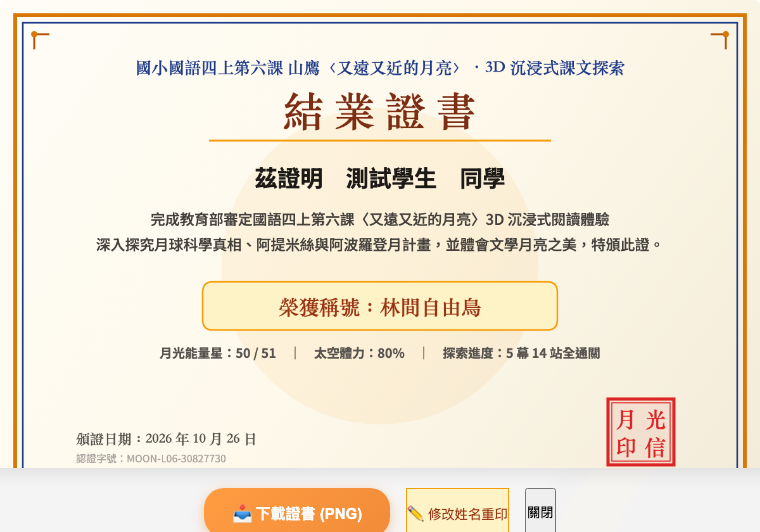
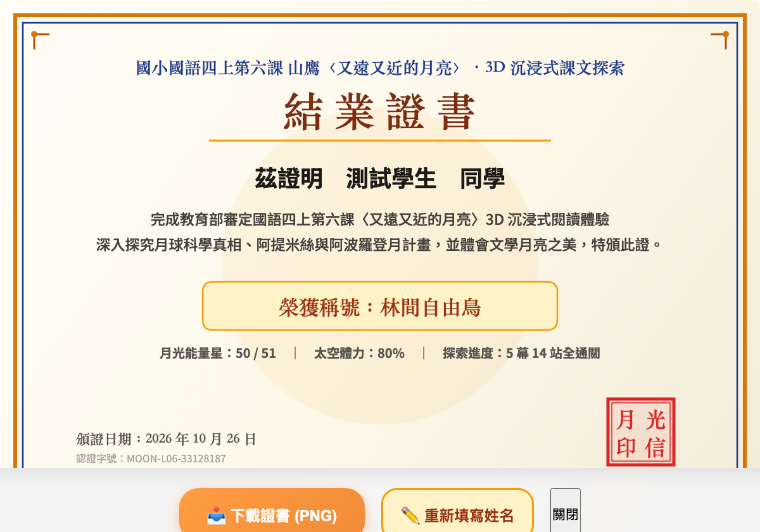
fix(auth,cert): fix teacher password to 1212 without displaying in UI, align cert anti-foolproofing modal with cat-game

Changed region(s): [[0.2118, 0.9023, 0.7868, 1.0], [0.2421, 0.8421, 0.3026, 0.8722]]

diff --git a/moon-game/game.html b/moon-game/game.html
@@ -6,7 +6,7 @@
   <meta name="apple-mobile-web-app-capable" content="yes">
   <meta name="apple-mobile-web-app-status-bar-style" content="black-translucent">
   <title>《又遠又近的月亮：3D 登月奇航》沉浸式教育遊戲</title>
-  <link rel="stylesheet" href="css/style.css?v=20261029_1">
+  <link rel="stylesheet" href="css/style.css?v=20261029_2">
   <!-- Three.js 核心庫 (CDN) -->
   <script src="https://cdnjs.cloudflare.com/ajax/libs/three.js/r128/three.min.js"></script>
 </head>
@@ -43,7 +43,7 @@
         <button id="tQrcode" class="btn-secondary" style="background: #eff6ff; border-color: #60a5fa; color: #1d4ed8;" onclick="openQrModal()">📱 手機掃描 QR Code ＆ 讀報重點</button>
       </div>
       <div class="title-teacher-row">
-        <input id="teacherPw" type="password" placeholder="請輸入教師密碼 (ijun)">
+        <input id="teacherPw" type="password" placeholder="請輸入教師密碼">
         <button class="btn-teacher" onclick="curriculumSystem.unlockAllStages(document.getElementById('teacherPw').value)">解鎖</button>
       </div>
     </div>
@@ -251,19 +251,31 @@
     </div>
   </div>
 
-  <!-- 通關姓名輸入彈窗 -->
-  <div class="modal-overlay" id="name-input-modal">
-    <div class="modal-card" style="max-width: 440px; text-align: center;">
-      <div style="font-size: 48px; margin-bottom: 8px;">🏆🌕</div>
-      <h2 style="font-size: 22px; font-weight: 900; color: #9a3412; margin-bottom: 8px;">恭喜全課通關！</h2>
-      <p style="font-size: 14px; color: #64748b; margin-bottom: 14px;">
-        你已完成〈又遠又近的月亮〉全部 5 幕 14 站閱讀與生字挑戰！<br>
-        <b style="color: #c2410c;">請務必輸入你自己的姓名</b>，系統將為你印製專屬結業證書：
-      </p>
-      <input id="student-name-input" type="text" placeholder="請在此輸入你的真實姓名..." style="width: 100%; padding: 12px 16px; border-radius: 12px; border: 2px solid #fed7aa; font-size: 16px; text-align: center; margin-bottom: 8px; outline: none;" value="" onkeydown="if(event.key==='Enter') curriculumSystem.finishAndGenerateCertificate(this.value)">
-      <div id="name-input-error" style="display: none; color: #e11d48; font-size: 13px; font-weight: 800; margin-bottom: 12px; background: #fff1f2; padding: 8px 10px; border-radius: 8px; border: 1px solid #fecdd3;"></div>
-      <button class="btn-confirm" style="width: 100%; margin-top: 4px;" onclick="curriculumSystem.finishAndGenerateCertificate(document.getElementById('student-name-input').value)">
-        領取結業證書 📜
+  <!-- 通關姓名輸入彈窗 (留空必填並強化視覺提醒，與上一款遊戲完全一致) -->
+  <div class="modal-overlay" id="name-input-modal" style="z-index: 260;">
+    <div class="modal-card" style="max-width: 480px; text-align: center; border: 3px solid #f59e0b;">
+      <div style="font-size: 46px; margin-bottom: 4px;">🏆🌕✍</div>
+      <h2 style="font-size: 23px; font-weight: 900; color: #9a3412; margin-bottom: 6px;">恭喜全課通關！請填寫你的姓名</h2>
+      <div style="background: #fef3c7; border: 2px dashed #d97706; border-radius: 12px; padding: 10px 14px; margin-bottom: 14px; text-align: left;">
+        <div style="font-size: 14.5px; font-weight: 900; color: #b45309; margin-bottom: 3px;">
+          ⚠ 重要提醒：請在下方空白處輸入「你自己的姓名」！
+        </div>
+        <div style="font-size: 12.5px; color: #78350f;">
+          輸入完成後再按「領取結業證書」，你的名字就會印在專屬獎狀上喔！
+        </div>
+      </div>
+      <label for="student-name-input" style="display:block; font-size: 15px; font-weight: 900; color: #7c2d12; margin-bottom: 8px;">
+        👇 請在此點選並輸入你的姓名（必填）：
+      </label>
+      <input id="student-name-input" type="text" placeholder="請點此輸入你的姓名（不可空白）" value="" autocomplete="off"
+        oninput="this.style.borderColor='#10b981'; this.style.backgroundColor='#ffffff'; const err=document.getElementById('name-input-error'); if(err) err.style.display='none';"
+        onkeydown="if(event.key==='Enter') curriculumSystem.finishAndGenerateCertificate(this.value)"
+        style="width: 100%; padding: 14px 16px; border-radius: 14px; border: 3px solid #f59e0b; background: #fffbeb; font-size: 20px; font-weight: 900; color: #1c1917; text-align: center; margin-bottom: 10px; outline: none; box-shadow: 0 0 0 4px rgba(245, 158, 11, 0.2);" />
+      <div id="name-input-error" style="display:none; background:#fef2f2; border:1.5px solid #ef4444; color:#dc2626; font-size:13.5px; font-weight:800; padding:8px 12px; border-radius:10px; margin-bottom:12px;">
+        ⚠ 請先輸入你自己的姓名，才能領取結業證書喔！
+      </div>
+      <button class="btn-confirm" style="width: 100%; font-size: 16px; padding: 12px 18px;" onclick="curriculumSystem.finishAndGenerateCertificate(document.getElementById('student-name-input').value)">
+        ✅ 我已填好姓名，領取結業證書 📜
       </button>
     </div>
   </div>
@@ -279,7 +291,7 @@
       </div>
       <div class="cert-btn-row">
         <button id="certDl" class="btn-confirm" onclick="curriculumSystem.downloadCertificate()">📥 下載證書 (PNG)</button>
-        <button class="btn-cancel" style="background: #fef3c7; color: #9a3412; border: 1.5px solid #f59e0b;" onclick="curriculumSystem.editCertificateName()">✏ 修改姓名重印</button>
+        <button id="certEditName" class="btn-secondary" style="background:#fef3c7; border-color:#f59e0b; color:#9a3412;" onclick="curriculumSystem.editCertificateName()">✏ 重新填寫姓名</button>
         <button id="certClose" class="btn-cancel" onclick="closeCert()">關閉</button>
       </div>
     </div>
@@ -295,7 +307,7 @@
       </div>
       <div id="stages-list" style="max-height: 55vh; overflow-y: auto; margin: 12px 0;"></div>
       <div class="modal-footer" style="display:flex; gap:8px;">
-        <input id="stagesTeacherPw" type="password" placeholder="請輸入教師密碼 (ijun)" style="flex:1; padding:8px 12px; border-radius:10px; border:1.5px solid #fed7aa;">
+        <input id="stagesTeacherPw" type="password" placeholder="請輸入教師密碼" style="flex:1; padding:8px 12px; border-radius:10px; border:1.5px solid #fed7aa;">
         <button class="btn-confirm" onclick="curriculumSystem.unlockAllStages(document.getElementById('stagesTeacherPw').value)">密碼解鎖</button>
       </div>
     </div>
@@ -367,10 +379,10 @@
   </div>
 
   <!-- 依序載入關卡題庫、音效系統、教學邏輯與 3D 引擎 -->
-  <script src="js/stations.js?v=20261029_1"></script>
-  <script src="js/audio.js?v=20261029_1"></script>
-  <script src="js/curriculum.js?v=20261029_1"></script>
-  <script src="js/game.js?v=20261029_1"></script>
+  <script src="js/stations.js?v=20261029_2"></script>
+  <script src="js/audio.js?v=20261029_2"></script>
+  <script src="js/curriculum.js?v=20261029_2"></script>
+  <script src="js/game.js?v=20261029_2"></script>
 
   <script>
     function selectRole(role) {

diff --git a/moon-game/index.html b/moon-game/index.html
@@ -6,7 +6,7 @@
   <meta name="apple-mobile-web-app-capable" content="yes">
   <meta name="apple-mobile-web-app-status-bar-style" content="black-translucent">
   <title>《又遠又近的月亮：3D 登月奇航》沉浸式教育遊戲</title>
-  <link rel="stylesheet" href="css/style.css?v=20261029_1">
+  <link rel="stylesheet" href="css/style.css?v=20261029_2">
   <!-- Three.js 核心庫 (CDN) -->
   <script src="https://cdnjs.cloudflare.com/ajax/libs/three.js/r128/three.min.js"></script>
 </head>
@@ -43,7 +43,7 @@
         <button id="tQrcode" class="btn-secondary" style="background: #eff6ff; border-color: #60a5fa; color: #1d4ed8;" onclick="openQrModal()">📱 手機掃描 QR Code ＆ 讀報重點</button>
       </div>
       <div class="title-teacher-row">
-        <input id="teacherPw" type="password" placeholder="請輸入教師密碼 (ijun)">
+        <input id="teacherPw" type="password" placeholder="請輸入教師密碼">
         <button class="btn-teacher" onclick="curriculumSystem.unlockAllStages(document.getElementById('teacherPw').value)">解鎖</button>
       </div>
     </div>
@@ -251,19 +251,31 @@
     </div>
   </div>
 
-  <!-- 通關姓名輸入彈窗 -->
-  <div class="modal-overlay" id="name-input-modal">
-    <div class="modal-card" style="max-width: 440px; text-align: center;">
-      <div style="font-size: 48px; margin-bottom: 8px;">🏆🌕</div>
-      <h2 style="font-size: 22px; font-weight: 900; color: #9a3412; margin-bottom: 8px;">恭喜全課通關！</h2>
-      <p style="font-size: 14px; color: #64748b; margin-bottom: 14px;">
-        你已完成〈又遠又近的月亮〉全部 5 幕 14 站閱讀與生字挑戰！<br>
-        <b style="color: #c2410c;">請務必輸入你自己的姓名</b>，系統將為你印製專屬結業證書：
-      </p>
-      <input id="student-name-input" type="text" placeholder="請在此輸入你的真實姓名..." style="width: 100%; padding: 12px 16px; border-radius: 12px; border: 2px solid #fed7aa; font-size: 16px; text-align: center; margin-bottom: 8px; outline: none;" value="" onkeydown="if(event.key==='Enter') curriculumSystem.finishAndGenerateCertificate(this.value)">
-      <div id="name-input-error" style="display: none; color: #e11d48; font-size: 13px; font-weight: 800; margin-bottom: 12px; background: #fff1f2; padding: 8px 10px; border-radius: 8px; border: 1px solid #fecdd3;"></div>
-      <button class="btn-confirm" style="width: 100%; margin-top: 4px;" onclick="curriculumSystem.finishAndGenerateCertificate(document.getElementById('student-name-input').value)">
-        領取結業證書 📜
+  <!-- 通關姓名輸入彈窗 (留空必填並強化視覺提醒，與上一款遊戲完全一致) -->
+  <div class="modal-overlay" id="name-input-modal" style="z-index: 260;">
+    <div class="modal-card" style="max-width: 480px; text-align: center; border: 3px solid #f59e0b;">
+      <div style="font-size: 46px; margin-bottom: 4px;">🏆🌕✍</div>
+      <h2 style="font-size: 23px; font-weight: 900; color: #9a3412; margin-bottom: 6px;">恭喜全課通關！請填寫你的姓名</h2>
+      <div style="background: #fef3c7; border: 2px dashed #d97706; border-radius: 12px; padding: 10px 14px; margin-bottom: 14px; text-align: left;">
+        <div style="font-size: 14.5px; font-weight: 900; color: #b45309; margin-bottom: 3px;">
+          ⚠ 重要提醒：請在下方空白處輸入「你自己的姓名」！
+        </div>
+        <div style="font-size: 12.5px; color: #78350f;">
+          輸入完成後再按「領取結業證書」，你的名字就會印在專屬獎狀上喔！
+        </div>
+      </div>
+      <label for="student-name-input" style="display:block; font-size: 15px; font-weight: 900; color: #7c2d12; margin-bottom: 8px;">
+        👇 請在此點選並輸入你的姓名（必填）：
+      </label>
+      <input id="student-name-input" type="text" placeholder="請點此輸入你的姓名（不可空白）" value="" autocomplete="off"
+        oninput="this.style.borderColor='#10b981'; this.style.backgroundColor='#ffffff'; const err=document.getElementById('name-input-error'); if(err) err.style.display='none';"
+        onkeydown="if(event.key==='Enter') curriculumSystem.finishAndGenerateCertificate(this.value)"
+        style="width: 100%; padding: 14px 16px; border-radius: 14px; border: 3px solid #f59e0b; background: #fffbeb; font-size: 20px; font-weight: 900; color: #1c1917; text-align: center; margin-bottom: 10px; outline: none; box-shadow: 0 0 0 4px rgba(245, 158, 11, 0.2);" />
+      <div id="name-input-error" style="display:none; background:#fef2f2; border:1.5px solid #ef4444; color:#dc2626; font-size:13.5px; font-weight:800; padding:8px 12px; border-radius:10px; margin-bottom:12px;">
+        ⚠ 請先輸入你自己的姓名，才能領取結業證書喔！
+      </div>
+      <button class="btn-confirm" style="width: 100%; font-size: 16px; padding: 12px 18px;" onclick="curriculumSystem.finishAndGenerateCertificate(document.getElementById('student-name-input').value)">
+        ✅ 我已填好姓名，領取結業證書 📜
       </button>
     </div>
   </div>
@@ -279,7 +291,7 @@
       </div>
       <div class="cert-btn-row">
         <button id="certDl" class="btn-confirm" onclick="curriculumSystem.downloadCertificate()">📥 下載證書 (PNG)</button>
-        <button class="btn-cancel" style="background: #fef3c7; color: #9a3412; border: 1.5px solid #f59e0b;" onclick="curriculumSystem.editCertificateName()">✏ 修改姓名重印</button>
+        <button id="certEditName" class="btn-secondary" style="background:#fef3c7; border-color:#f59e0b; color:#9a3412;" onclick="curriculumSystem.editCertificateName()">✏ 重新填寫姓名</button>
         <button id="certClose" class="btn-cancel" onclick="closeCert()">關閉</button>
       </div>
     </div>
@@ -295,7 +307,7 @@
       </div>
       <div id="stages-list" style="max-height: 55vh; overflow-y: auto; margin: 12px 0;"></div>
       <div class="modal-footer" style="display:flex; gap:8px;">
-        <input id="stagesTeacherPw" type="password" placeholder="請輸入教師密碼 (ijun)" style="flex:1; padding:8px 12px; border-radius:10px; border:1.5px solid #fed7aa;">
+        <input id="stagesTeacherPw" type="password" placeholder="請輸入教師密碼" style="flex:1; padding:8px 12px; border-radius:10px; border:1.5px solid #fed7aa;">
         <button class="btn-confirm" onclick="curriculumSystem.unlockAllStages(document.getElementById('stagesTeacherPw').value)">密碼解鎖</button>
       </div>
     </div>
@@ -367,10 +379,10 @@
   </div>
 
   <!-- 依序載入關卡題庫、音效系統、教學邏輯與 3D 引擎 -->
-  <script src="js/stations.js?v=20261029_1"></script>
-  <script src="js/audio.js?v=20261029_1"></script>
-  <script src="js/curriculum.js?v=20261029_1"></script>
-  <script src="js/game.js?v=20261029_1"></script>
+  <script src="js/stations.js?v=20261029_2"></script>
+  <script src="js/audio.js?v=20261029_2"></script>
+  <script src="js/curriculum.js?v=20261029_2"></script>
+  <script src="js/game.js?v=20261029_2"></script>
 
   <script>
     function selectRole(role) {

diff --git a/moon-game/js/curriculum.js b/moon-game/js/curriculum.js
@@ -957,13 +957,13 @@ class CurriculumSystem {
   }
 
   unlockAllStages(pw) {
-    if (pw === 'ijun' || pw === '1212') {
+    if (pw === '1212') {
       this.G.unlocked = true;
       this.saveGame();
       alert(`🔓 教師密碼正確！已成功解鎖全課 ${this.ST.length} 個站點（含生字語詞書櫃關卡）！`);
       this.openStagesModal();
     } else {
-      alert('❌ 密碼錯誤，請輸入教師密碼 ijun！');
+      alert('❌ 密碼錯誤，請確認教師密碼！');
     }
   }
 

diff --git a/js/curriculum.js b/js/curriculum.js
@@ -947,7 +947,7 @@ class CurriculumSystem {
   }
 
   unlockAllStages(pw) {
-    if (pw === '1212' || pw === 'ijun') {
+    if (pw === '1212') {
       this.G.unlocked = true;
       this.saveGame();
       alert(`🔓 教師密碼正確！已成功解鎖全課 ${this.ST.length} 個站點（含生字語詞書櫃關卡）！`);

diff --git a/moon-game/README.md b/moon-game/README.md
@@ -25,8 +25,8 @@
 3. **遊戲化機制與 1200×840 結業證書（含必填姓名驗證）**：
    - **HP 體力條**：初始 100 HP，答錯扣血並觸發 `hurt()` 邊緣紅光抖動與課文線索提示；體力歸零自動重玩該關。
    - **月光能量星收集與稱號系統**：答對題目獲得月光能量星（🌟），通關後依比例頒授稱號（星際登月領航員、月光科學探險家、好奇觀月小讀者、月球見習小太空人）。
-   - **高質感結業證書**：要求學生必填真實姓名方可領取，Canvas 即時生成 1200×840 PNG 證書，具備雙層金藍古雅框、滿月浮水印、稱號底牌、認證字號與朱紅大印（「月光印信／教育認證」），支援一鍵下載、修改姓名重印與自動解鎖全關卡。
-   - **教師密碼**：支援輸入 `ijun`（或 `1212`）快速解鎖全課 14 站。
+   - **高質感結業證書**：要求學生必填真實姓名方可領取（未輸入時顯示紅框防呆提醒並阻擋領取），Canvas 即時生成 1200×840 PNG 證書，具備雙層金藍古雅框、滿月浮水印、稱號底牌、認證字號與朱紅大印（「月光印信」），支援一鍵下載、重新填寫姓名與自動解鎖全關卡。
+   - **教師密碼**：支援教師輸入專屬密碼快速解鎖全課 14 站（密碼不顯示於遊戲畫面）。
 
 4. **雙視角自由切換與 4 幕動態光影**：
    - **🧑🚀 登月太空人視角**：支援 1/6 月球低重力輕盈跳躍，近距離觀察隕石坑與阿波羅登月艇。
